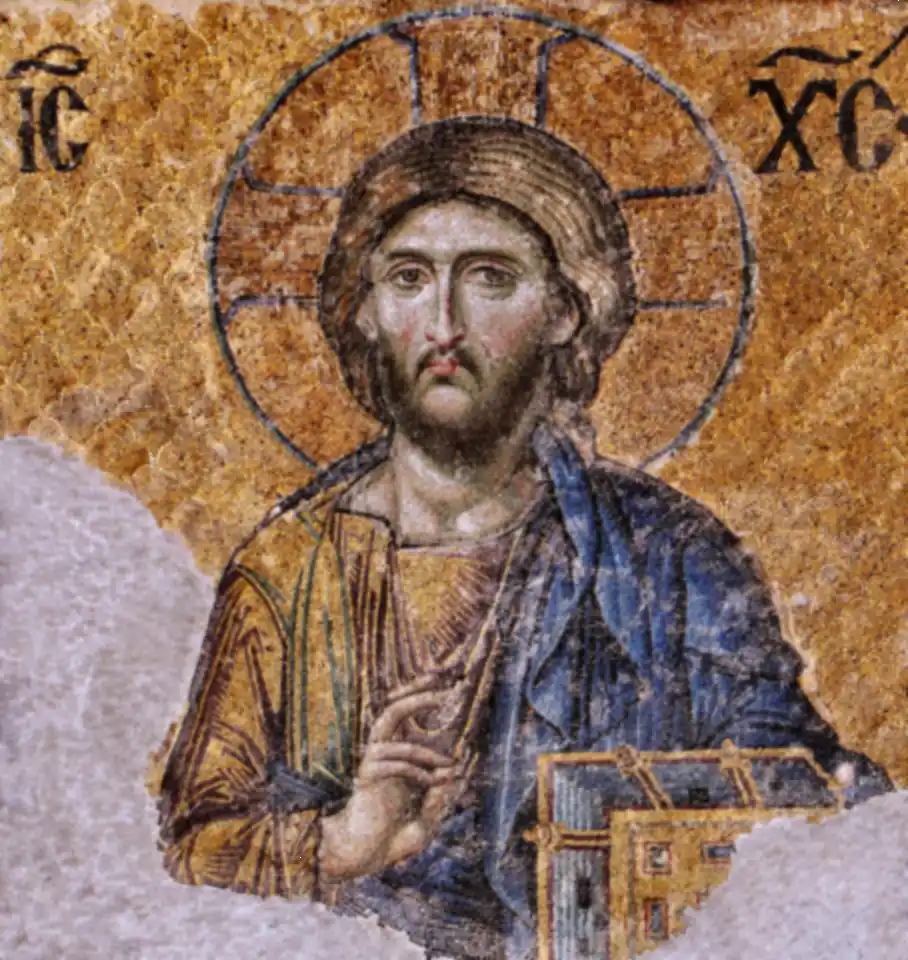
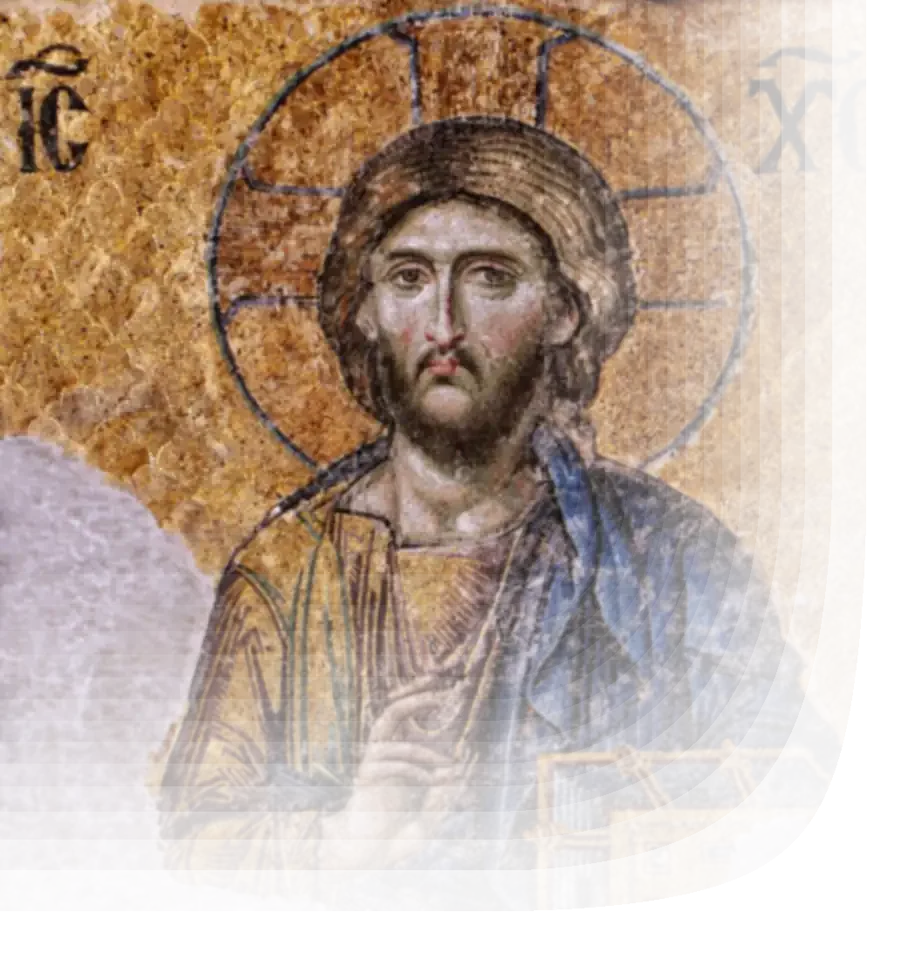
Press: the Deësis Christ gets its feather back (its remake for Lighthouse was fully opaque), and every painting is held to its alpha (#100)

diff --git a/tests/py/test_press_art.py b/tests/py/test_press_art.py
@@ -32,6 +32,24 @@ class PressArt(unittest.TestCase):
                 self.assertTrue((PRESS / f"static/art/{corner}-{size}.webp").is_file())
                 self.assertIn(f"/art/{corner}-{size}.webp", css)
 
+    def test_every_painting_keeps_its_feather(self):
+        """The feather is baked into each painting's alpha, never a CSS mask (press.css), so a
+        recompression that drops it fails in silence: the Deësis Christ lost its feather to one
+        (2026-11-26, #97) and stood in the corner of All as a hard-edged block on every screen.
+        A lossy WebP keeps its alpha in an ALPH chunk; a solid opaque plane compresses to under
+        100 bytes, every feathered painting's to over 3,500. No decoder needed."""
+        for p in sorted((PRESS / "static/art").glob("*.webp")):
+            chunks, b, i = {}, p.read_bytes(), 12
+            self.assertEqual((b[:4], b[8:12]), (b"RIFF", b"WEBP"), p.name)
+            while i + 8 <= len(b):
+                n = int.from_bytes(b[i + 4:i + 8], "little")
+                chunks[b[i:i + 4]] = n
+                i += 8 + n + (n & 1)
+            if b"VP8L" in chunks:   # lossless: the alpha rides inside the image data
+                continue
+            self.assertGreater(chunks.get(b"ALPH", 0), 1000,
+                               f"{p.name}: no feathered alpha (opaque, or its alpha dropped)")
+
     def test_every_painting_has_both_files(self):
         block = re.search(r"const PAINTINGS[^=]*=\s*\[(.*?)\];", ART, re.S).group(1)
         names = re.findall(r'\["([a-z-]+)",\s*(?:true|false)\]', block)

diff --git a/docs/architecture/log/2026-11.md b/docs/architecture/log/2026-11.md
@@ -247,6 +247,22 @@ does it); then regenerate the index.
   a shelf page's first two covers, a phone's first row, fetch at high priority. Local Lighthouse
   13.6 (simulated, as PSI) on the build: home, every shelf, a title, About and Contact, 100 on both.
 
+- **Lérins Press: the Deësis Christ gets its feather back, and every painting is held to one
+  (2026-11-26)** — the owner: "the jesus image top left is messed up on mobile, i dont see like the
+  fade
+  transition or the effects we used to make it smooth and blending, its harsh and sticks out". The
+  Christ, "made again from its source" for Lighthouse above, was made without the feather the
+  stylesheet relies on ("baked into the image, never a CSS mask"): both files were fully opaque, so
+  the corner of All stood as a hard-edged rectangle on a phone and on a desktop. Every other
+  painting
+  kept its alpha to the byte. The two files now carry the old files' feather, resized to the new
+  pixels (alpha mean 0.58 and reaching 0, as before), stripped of the profile and metadata the
+  remake
+  had kept: 27 KB and 86 KB, against the broken 43 KB and 86 KB. `test_press_art.py` now reads every
+  painting's `ALPH` chunk with no decoder: a solid opaque plane compresses to under 100 bytes (the
+  broken files: 91 and 73), every feathered painting's to over 3,500, so the test asks for more than
+  1,000.
+
 ## Build system
 
 - **The corpus sweeps know pandoc by its prefix, so a current pandoc builds the same site

diff --git a/docs/architecture/INFRASTRUCTURE.md b/docs/architecture/INFRASTRUCTURE.md
@@ -105,6 +105,7 @@ on page one.)
 - **Lérins Press: a portrait fixed in the top left of every shelf (2026-11-26)** — `log/2026-11.md`
 - **Lérins Press scores 100 on Lighthouse, phone and desktop: the corners hang on <html>, and decoration waits for the load (2026-11-26)** — `log/2026-11.md`
 - **Lérins Press: the shelf names cannot move when Cinzel arrives, and the last two 99s (2026-11-26)** — `log/2026-11.md`
+- **Lérins Press: the Deësis Christ gets its feather back, and every painting is held to one (2026-11-26)** — `log/2026-11.md`
 
 ### Build system
 
